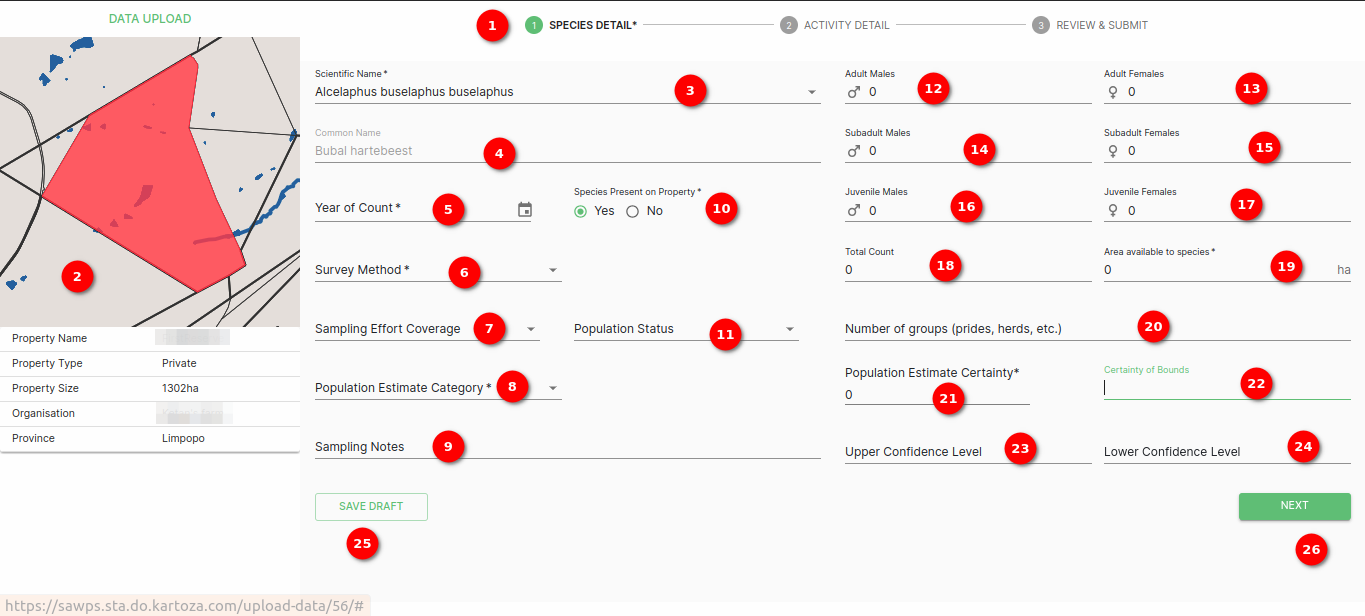
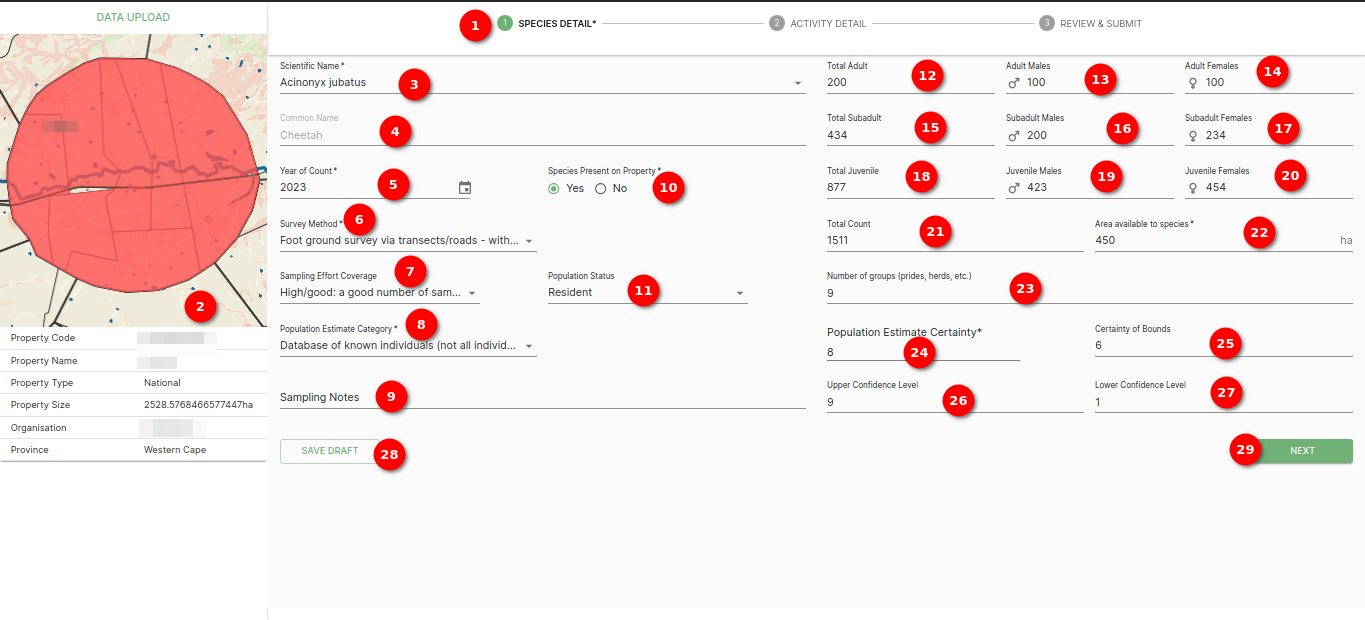
Update online form step 1 document and image

diff --git a/docs/src/user/manual/data-upload/online-form.md b/docs/src/user/manual/data-upload/online-form.md
@@ -43,35 +43,41 @@ The data upload online form provides a convenient and structured way to enter sp
 
 11. **Population Status**: Specify the population status by selecting an option from the dropdown menu.
 
-12. **Adult Males**: Enter the number of adult males for the species.
+12. **Total Adult**: The total number of adult species.
 
-13. **Adult Females**: Enter the number of adult females for the species.
+13. **Adult Males**: Enter the number of adult males for the species.
 
-14. **Subadult Males**: Enter the number of subadult males for the species.
+14. **Adult Females**: Enter the number of adult females for the species.
 
-15. **Subadult Females**: Enter the number of subadult females for the species.
+15. **Total Sub-adult**: The total number of sub-adult species.
 
-16. **Juvenile Males**: Enter the number of juvenile males for the species.
+16. **Sub-adult Males**: Enter the number of subadult males for the species.
 
-17. **Juvenile Females**: Enter the number of juvenile females for the species.
+17. **Sub-adult Females**: Enter the number of subadult females for the species.
 
-18. **Total Count**: The total count will be automatically calculated based on the individual counts entered.
+18. **Total Juvenile**: The total number of juvenile species.
 
-19. **Area Available to Species**: Specify the area available to the species in hectares. This field is mandatory.
+19. **Juvenile Males**: Enter the number of juvenile males for the species.
 
-20. **Number of Groups (Prides, Herds, etc.)**: Enter the number of groups, prides, herds, or similar groupings.
+20. **Juvenile Females**: Enter the number of juvenile females for the species.
 
-21. **Population Estimate Certainty**: Select the certainty level of the population estimate from the dropdown menu. This field is mandatory.
+21. **Total Count**: The total count will be automatically calculated based on the individual counts entered.
 
-22. **Certainty of Bounds**: Provide additional information regarding the certainty of population bounds.
+22. **Area Available to Species**: Specify the area available to the species in hectares. This field is mandatory.
 
-23. **Upper Confidence Level**: Enter the upper confidence level.
+23. **Number of Groups (Prides, Herds, etc.)**: Enter the number of groups, prides, herds, or similar groupings.
 
-24. **Lower Confidence Level**: Enter the lower confidence level.
+24. **Population Estimate Certainty**: Select the certainty level of the population estimate from the dropdown menu. This field is mandatory.
 
-25. **SAVE DRAFT**: Click on this button to save the current form as a draft, allowing the user to return to it later and continue with data entry.
+25. **Certainty of Bounds**: Provide additional information regarding the certainty of population bounds.
 
-26. **NEXT**: Click on this button to proceed to the next step of the data upload process.
+26. **Upper Confidence Level**: Enter the upper confidence level.
+
+27. **Lower Confidence Level**: Enter the lower confidence level.
+
+28. **SAVE DRAFT**: Click on this button to save the current form as a draft, allowing the user to return to it later and continue with data entry.
+
+29. **NEXT**: Click on this button to proceed to the next step of the data upload process.
 
 ### Summary
 
@@ -79,7 +85,7 @@ The data upload online form streamlines the process of entering detailed species
 
 ## Online Form Step 2 (Activity detail)
 
-The second step introduces the `Introduction/Reintroduction` and `Off-take` sections, each with its own table and form. These sections allow the user to record important information related to species introduction or reintroduction and off-take data.
+The second step introduces the `Introduction/Reintroduction` and `Off-take` sections, each with its table and form. These sections allow the user to record important information related to species introduction or reintroduction and off-take data.
 
 ### Activity Detail
 
@@ -87,7 +93,7 @@ The second step introduces the `Introduction/Reintroduction` and `Off-take` sect
 
 1. **Activity Detail**: Second step of data upload online form `ACTIVITY DETAIL`.
 
-2. **Introduction/Reintroduction**: The `Introduction/Reintroduction` section displays the table and form. table for relevant data in a structured tabular format, and  form for entering detailed information related to species introduction or reintroduction.
+2. **Introduction/Reintroduction**: The `Introduction/Reintroduction` section displays the table and form. table for relevant data in a structured tabular format, and form for entering detailed information related to species introduction or reintroduction.
 
     **Introduction/Reintroduction Table and Form**
 
@@ -131,7 +137,7 @@ The second step introduces the `Introduction/Reintroduction` and `Off-take` sect
 
     1. **Off-take Table**: The `Off-take` table displays relevant data in a structured tabular format, making it easy to review and manage the user's Off-take records.
 
-    2. **Off-take Form**: The `Off-take` is same as the `Introduction/Reintroduction`. Enter the information related to off-take and add it by clicking on the `ADD` button.
+    2. **Off-take Form**: The `Off-take` is the same as the `Introduction/Reintroduction`. Enter the information related to off-take and add it by clicking on the `ADD` button.
 
 4. **Save Draft**: Use the `SAVE DRAFT` button to save the user's progress and store the data that the user has entered in the forms. This allows the user to return to the user's work at a later time.
 
@@ -141,7 +147,7 @@ The second step introduces the `Introduction/Reintroduction` and `Off-take` sect
 
 ### Summary
 
-Step 2 of the data upload online form  introduces the `Introduction/Reintroduction` and `Off-take` sections, each comprising a table and a form for data entry. These sections are critical for recording and managing information related to species introduction or reintroduction and off-take. The provided navigation buttons, including `SAVE DRAFT`, `BACK`, and `NEXT`, give the user control over the user's data entry process and progression through the data management steps.
+Step 2 of the data upload online form introduces the `Introduction/Reintroduction` and `Off-take` sections, each comprising a table and a form for data entry. These sections are critical for recording and managing information related to species introduction or reintroduction and off-take. The provided navigation buttons, including `SAVE DRAFT`, `BACK`, and `NEXT`, give the user control over the user's data entry process and progression through the data management steps.
 
 ## Online Form Step 3 (Review & Submit)
 
@@ -153,7 +159,7 @@ Step 3, `Review & Submit`, is the final stage of the data management process, wh
 
 ![Review & Submit](./img/online-form-5.png)
 
-1. **Species Detail**: The `Species Detail` section displays a summary of the species-specific information the user has entered, providing an overview of species' counts and other relevant details.
+1. **Species Detail**: The `Species Detail` section displays a summary of the species-specific information the user has entered, providing an overview of species counts and other relevant details.
 
 2. **Edit Note Icon**: For editing the species detail, simply click on the `Edit Note` icon to access and modify the species-related information.
 
